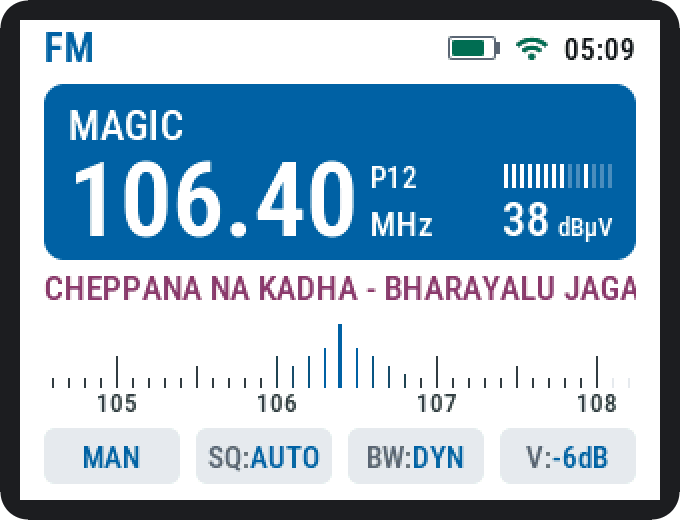
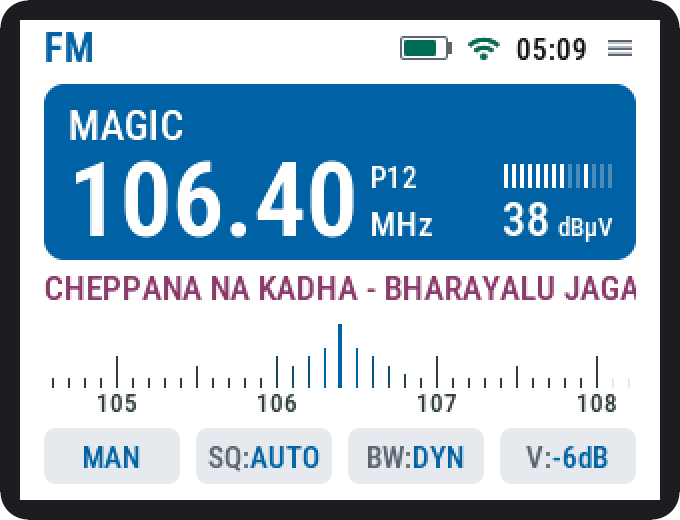
Draw a menu symbol in the radio screen's header
With Touch On and the touch chip answering, three lines sit at the far
right of the header, over the half a tap opens the menu from, and the
clock moves left of them. The band name keeps stepping the band.

Changed region(s): [[0.5868, 0.0615, 0.9265, 0.1231]]

diff --git a/src/ui/fonts/font_icons.c b/src/ui/fonts/font_icons.c
@@ -2,7 +2,7 @@
  * Size: 16 px
  * Bpp: 4
  * Weight: 400
- * Glyphs: 0xE63E,0xE4D9,0xE4CA,0xEB31,0xE1E2,0xE668,0xE5CD,0xE648,0xE5CC,0xE5CB,0xE14A,0xE86C,0xE887,0xE8B5,0xE14B,0xE031,0xE156,0xE037,0xE034,0xE565,0xEF49,0xE405,0xE91F,0xE1B8,0xE53A
+ * Glyphs: 0xE63E,0xE4D9,0xE4CA,0xEB31,0xE1E2,0xE668,0xE5CD,0xE648,0xE5CC,0xE5CB,0xE14A,0xE5D2,0xE86C,0xE887,0xE8B5,0xE14B,0xE031,0xE156,0xE037,0xE034,0xE565,0xEF49,0xE405,0xE91F,0xE1B8,0xE53A
  *
  * Material Symbols Outlined, for the status and page symbols.
  * Generated by tools/make_lvgl_font.py. Do not edit.
@@ -140,6 +140,12 @@ static LV_ATTRIBUTE_LARGE_CONST const uint8_t glyph_bitmap[] = {
     0x70, 0x0, 0x7f, 0x67, 0xf7, 0x0, 0x0, 0x7, 0xff, 0x70, 0x0, 0x0, 0x7, 0xff,
     0x60, 0x0, 0x0, 0x7f, 0x77, 0xf6, 0x0, 0x7, 0xf7, 0x0, 0x7f, 0x60, 0x5f,
     0x70, 0x0, 0x7, 0xf5, 0x15, 0x0, 0x0, 0x0, 0x51,
+
+    /* U+E5D2 "" */
+    0xff, 0xff, 0xff, 0xff, 0xff, 0xff, 0x55, 0x55, 0x55, 0x55, 0x55, 0x55, 0x0,
+    0x0, 0x0, 0x0, 0x0, 0x0, 0x77, 0x77, 0x77, 0x77, 0x77, 0x77, 0xee, 0xee,
+    0xee, 0xee, 0xee, 0xee, 0x0, 0x0, 0x0, 0x0, 0x0, 0x0, 0x55, 0x55, 0x55,
+    0x55, 0x55, 0x55, 0xff, 0xff, 0xff, 0xff, 0xff, 0xff,
 
     /* U+E63E "" */
     0x0, 0x0, 0x0, 0x0, 0x11, 0x0, 0x0, 0x0, 0x0, 0x0, 0x3, 0x9d, 0xff, 0xff,
@@ -335,53 +341,59 @@ static const lv_font_fmt_txt_glyph_dsc_t glyph_dsc[] = {
      .ofs_y = 3},
     {.bitmap_index = 986,
      .adv_w = 256,
+     .box_w = 12,
+     .box_h = 8,
+     .ofs_x = 2,
+     .ofs_y = 4},
+    {.bitmap_index = 1034,
+     .adv_w = 256,
      .box_w = 17,
      .box_h = 12,
      .ofs_x = -1,
      .ofs_y = 2},
-    {.bitmap_index = 1088,
+    {.bitmap_index = 1136,
      .adv_w = 256,
      .box_w = 17,
      .box_h = 14,
      .ofs_x = -1,
      .ofs_y = 0},
-    {.bitmap_index = 1207,
+    {.bitmap_index = 1255,
      .adv_w = 256,
      .box_w = 12,
      .box_h = 9,
      .ofs_x = 2,
      .ofs_y = 4},
-    {.bitmap_index = 1261,
+    {.bitmap_index = 1309,
      .adv_w = 256,
      .box_w = 14,
      .box_h = 14,
      .ofs_x = 1,
      .ofs_y = 1},
-    {.bitmap_index = 1359,
+    {.bitmap_index = 1407,
      .adv_w = 256,
      .box_w = 14,
      .box_h = 14,
      .ofs_x = 1,
      .ofs_y = 1},
-    {.bitmap_index = 1457,
+    {.bitmap_index = 1505,
      .adv_w = 256,
      .box_w = 14,
      .box_h = 14,
      .ofs_x = 1,
      .ofs_y = 1},
-    {.bitmap_index = 1555,
+    {.bitmap_index = 1603,
      .adv_w = 256,
      .box_w = 16,
      .box_h = 13,
      .ofs_x = 0,
      .ofs_y = 2},
-    {.bitmap_index = 1659,
+    {.bitmap_index = 1707,
      .adv_w = 256,
      .box_w = 16,
      .box_h = 12,
      .ofs_x = 0,
      .ofs_y = 2},
-    {.bitmap_index = 1755,
+    {.bitmap_index = 1803,
      .adv_w = 256,
      .box_w = 14,
      .box_h = 12,
@@ -394,8 +406,8 @@ static const lv_font_fmt_txt_glyph_dsc_t glyph_dsc[] = {
 
 static const uint16_t unicode_list_0[] = {
     0x0,   0x3,   0x6,   0x119, 0x11a, 0x125, 0x187, 0x1b1, 0x3d4,
-    0x499, 0x4a8, 0x509, 0x534, 0x59a, 0x59b, 0x59c, 0x60d, 0x617,
-    0x637, 0x83b, 0x856, 0x884, 0x8ee, 0xb00, 0xf18};
+    0x499, 0x4a8, 0x509, 0x534, 0x59a, 0x59b, 0x59c, 0x5a1, 0x60d,
+    0x617, 0x637, 0x83b, 0x856, 0x884, 0x8ee, 0xb00, 0xf18};
 
 /*Collect the unicode lists and glyph_id offsets*/
 static const lv_font_fmt_txt_cmap_t cmaps[] = {
@@ -404,7 +416,7 @@ static const lv_font_fmt_txt_cmap_t cmaps[] = {
      .glyph_id_start = 1,
      .unicode_list = unicode_list_0,
      .glyph_id_ofs_list = NULL,
-     .list_length = 25,
+     .list_length = 26,
      .type = LV_FONT_FMT_TXT_CMAP_SPARSE_TINY}};
 
 /*--------------------

diff --git a/src/ui/panels/panel_header.cpp b/src/ui/panels/panel_header.cpp
@@ -1,7 +1,8 @@
 /*
  * The header: the band on the left, with the metre band beside it on SW, and
- * on the right one run of, from the right, the clock, Wi-Fi, the battery and
- * the sleep mark. No speaker: the V: tile says when the radio is muted.
+ * on the right one run of, from the right, the menu symbol while Touch is On,
+ * the clock, Wi-Fi, the battery and the sleep mark. No speaker: the V: tile
+ * says when the radio is muted.
  *
  * No fill. Every item is centred on one line, 14 rows down: the band name
  * sits on baseline 21 and the rest on baseline 20, one row lower so that the
@@ -51,6 +52,7 @@ static lv_obj_t *sBattBody;
 static lv_obj_t *sBattFill;
 static lv_obj_t *sBattNub;
 static lv_obj_t *sClock;
+static lv_obj_t *sMenu;
 
 /* Top of an icon's box, so its ink is centred on the header's line. */
 static int16_t iconTop(void) {
@@ -77,6 +79,8 @@ static void begin(lv_obj_t *parent, const PanelRect *at) {
   sBattFill = uiRound(parent, t->good, 0, 0, 0, BATT_H - 4, 1);
   sBattNub = uiBlock(parent, t->dead, 0, 0, BATT_NUB_W, BATT_NUB_H);
   sClock = uiLabel(parent, &roboto_small, t->measurement);
+  sMenu = uiLabel(parent, &roboto_icons, t->dead);
+  uiSetTextStatic(sMenu, ICON_MENU);
 }
 
 /* A word in the run, ending at `*right`, which then moves past it. */
@@ -111,8 +115,15 @@ static void show(const ScreenState *s) {
 
   int16_t right = (int16_t)(sAt.x + sAt.w - UI_MARGIN);
 
-  /* The clock holds the corner. Absent until a server has answered, and the
-   * run closes up over it. */
+  /* The menu symbol takes the corner while a finger can use it, deep in the
+   * menu's half, as far from the band name's half as it can be. */
+  uiShowIf(sMenu, s->menuMark);
+  if (s->menuMark) {
+    placeIcon(sMenu, &right, UI_GAP);
+  }
+
+  /* The clock holds the corner, or sits next to the menu symbol. Absent
+   * until a server has answered, and the run closes up over it. */
   if (s->clock != NULL && s->clock[0] != '\0') {
     uiSetText(sClock, s->clock);
     placeWord(sClock, &roboto_small, &right, UI_GAP);

diff --git a/tools/screenshot.cpp b/tools/screenshot.cpp
@@ -409,6 +409,12 @@ static void sceneFmNoClock(ScreenState *s) {
   s->date = NULL;
 }
 
+/* Touch Off: no menu symbol, and the clock back in the corner. */
+static void sceneFmTouchOff(ScreenState *s) {
+  sceneFm(s);
+  s->menuMark = false;
+}
+
 /* A shortwave scene tuned to `khz`: the frequency, the scale and the metre
  * band all from the one number, through core's own rules, so a scene cannot
  * show a metre band the radio would not. */
@@ -617,6 +623,7 @@ static void saveZones(const TouchZone *zones, int n, const char *path) {
 static void render(void (*scene)(ScreenState *), const char *path) {
   ScreenState s;
   memset(&s, 0, sizeof(s));
+  s.menuMark = true; /* Touch On, as on a new radio. */
   scene(&s);
   screenShow(&s);
   saveShot("%s", path);
@@ -1252,6 +1259,7 @@ static bool renderCapture(const char *path, uint32_t khz, bool withRds) {
   in.battery = &battery;
   in.batteryShow = BATTERY_SHOW_PERCENT;
   in.clock = "05:09";
+  in.touchOn = true;
   in.date = fmt(STR_DATE_FMT_LINE, txt(STR_DAY_WEDNESDAY), 30,
                 txt(STR_DATE_SUFFIX_TH), txt(STR_MONTH_SEPTEMBER), 2026);
   in.nowMs = 0;
@@ -1317,6 +1325,7 @@ int main(int argc, char **argv) {
       {"fm-volts", sceneFmVolts},
       {"fm-volts-low", sceneFmVoltsLow},
       {"fm-noclock", sceneFmNoClock},
+      {"fm-touch-off", sceneFmTouchOff},
       {"sw", sceneSw},
       {"sw-top", sceneSwTop},
       {"mw", sceneMw},

diff --git a/src/screen_state.h b/src/screen_state.h
@@ -38,10 +38,11 @@ typedef struct {
   /* Goes up whenever a stored channel changes, so the channel name read
    * from `readChannel` is read again only then. */
   uint32_t memoryGeneration;
-  const char *typed;       /* Digits typed on the keypad so far, or NULL. */
-  ScreenWifi wifi;         /* What the network is doing. */
-  bool rssiValid;          /* The link's strength below was read. */
-  int8_t rssiDbm;          /* The link's strength, in dBm. */
+  const char *typed; /* Digits typed on the keypad so far, or NULL. */
+  bool touchOn;      /* Touch is On and the chip answered: a finger can act. */
+  ScreenWifi wifi;   /* What the network is doing. */
+  bool rssiValid;    /* The link's strength below was read. */
+  int8_t rssiDbm;    /* The link's strength, in dBm. */
   const Battery *battery;  /* The battery readings, or NULL. */
   BatteryShow batteryShow; /* How the battery is shown, if at all. */
   const char *clock;       /* "14:05", or NULL until a server has answered. */

diff --git a/test/test_screen_state/test_screen_state.cpp b/test/test_screen_state/test_screen_state.cpp
@@ -450,6 +450,18 @@ static void the_clock_date_fault_and_log_confirm_are_null_until_set(void) {
   TEST_ASSERT_NULL(state.fault);
 }
 
+/* The menu symbol follows the Touch setting, both ways. */
+static void the_menu_mark_shows_only_with_touch_on(void) {
+  buildNow();
+  TEST_ASSERT_FALSE(state.menuMark);
+  in.touchOn = true;
+  buildNow();
+  TEST_ASSERT_TRUE(state.menuMark);
+  in.touchOn = false;
+  buildNow();
+  TEST_ASSERT_FALSE(state.menuMark);
+}
+
 /* ------------------------------------------------------------ the tiles */
 
 static void the_audio_tile_says_why_there_is_no_sound(void) {
@@ -783,6 +795,7 @@ int main(void) {
   RUN_TEST(rds_is_not_read_on_am);
 
   RUN_TEST(the_clock_date_fault_and_log_confirm_are_null_until_set);
+  RUN_TEST(the_menu_mark_shows_only_with_touch_on);
 
   RUN_TEST(the_audio_tile_says_why_there_is_no_sound);
   RUN_TEST(the_tiles_read_the_settings);

diff --git a/src/screen_task.cpp b/src/screen_task.cpp
@@ -1939,6 +1939,7 @@ void screenTaskPoll(void) {
   InputStatus input;
   inputStatusGet(&input);
   in.typed = input.typed;
+  in.touchOn = input.touchOn && input.touchChip;
   /*
    * What the network is doing, in the four states the header can draw.
    *
@@ -1981,7 +1982,7 @@ void screenTaskPoll(void) {
   in.battery = &sBattery;
   in.batteryShow = sBatteryShow;
   /*
-   * The clock, at the far right of the top strip, and only once a server has
+   * The clock, at the right of the top strip, and only once a server has
    * actually answered.
    *
    * This board has no battery backed clock, so between switching on and the

diff --git a/tools/make_lvgl_font.py b/tools/make_lvgl_font.py
@@ -82,6 +82,8 @@ ICON_CODEPOINTS = (
                               " right"),
     ("chevron_left", 0xE5CB, "the Scope page's cursor button to the left"),
     ("backspace", 0xE14A, "the frequency keypad's backspace key"),
+    ("menu", 0xE5D2, "the menu symbol in the radio screen's header, with"
+                     " Touch On"),
     ("check_circle", 0xE86C, "a PI confirmed on this channel, on the DX page"),
     ("help", 0xE887, "a PI heard with a digit in doubt, or a country not"
                      " yet sure, on the DX page"),

diff --git a/src/ui/fonts.h b/src/ui/fonts.h
@@ -96,6 +96,7 @@ LV_FONT_DECLARE(roboto_icons)
 #define ICON_CHEVRON "\xEE\x97\x8C"      /* U+E5CC chevron_right */
 #define ICON_CHEVRON_LEFT "\xEE\x97\x8B" /* U+E5CB chevron_left */
 #define ICON_BACKSPACE "\xEE\x85\x8A"    /* U+E14A backspace */
+#define ICON_MENU "\xEE\x97\x92"         /* U+E5D2 menu */
 #define ICON_CHECK_CIRCLE "\xEE\xA1\xAC" /* U+E86C check_circle */
 #define ICON_HELP "\xEE\xA2\x87"         /* U+E887 help */
 #define ICON_SCHEDULE "\xEE\xA2\xB5"     /* U+E8B5 schedule */

diff --git a/src/screen_state.cpp b/src/screen_state.cpp
@@ -294,6 +294,7 @@ void screenStateBuild(ScreenBuild *b, const ScreenInputs *in,
    * screen_task.cpp reads them. */
   state.clock = in->clock;
   state.date = in->date;
+  state.menuMark = in->touchOn;
 
   /* What the tuner last refused. Without it the screen can show a station the
    * radio is not actually on, with nothing to say so. */

diff --git a/src/ui/screen.h b/src/ui/screen.h
@@ -83,6 +83,9 @@ typedef struct {
   bool batteryValid;
   uint8_t batteryPercent;
   const char *batteryText;
+  /* Touch is On: the menu symbol in the corner, over the half of the header
+   * a tap opens the menu from. */
+  bool menuMark;
 
   /* ---- the frequency panel ---- */
   /*

diff --git a/wiki/Radio-Screen.md b/wiki/Radio-Screen.md
@@ -8,7 +8,7 @@ The colours named on this page are those of the Nightwatch theme in the pictures
 
 From top to bottom:
 
-1. **Header:** the band, and at the right the status marks and the clock.
+1. **Header:** the band, and at the right the status marks, the clock and, while Touch is On, the menu symbol.
 2. **Frequency panel**, the large filled box: the station name, the frequency, the preset number, the modulation meter and the signal level.
 3. **Text line:** the radio text, or the date.
 4. **Tuning scale.**
@@ -22,7 +22,8 @@ From top to bottom:
 | Wi-Fi mark | Always shown. On your network: green bars, 3 to 0 by the Wi-Fi signal. Joining: a search mark in grey. Serving the hotspot: a hotspot mark in amber. Wi-Fi off: a crossed mark in grey |
 | Battery | Hidden on a new radio. Display > Battery set to `Percent` shows a filled shape, and `Volts` shows the voltage. It turns to the theme's fault colour, red in Nightwatch, at 20 % or less |
 | Sleep mark | A person in bed, only while Auto Off is on. It turns amber in the last 5 minutes |
-| Clock | `HH:MM`, at the far right. It is hidden until the radio has the time from the network |
+| Clock | `HH:MM`, at the right. It is hidden until the radio has the time from the network |
+| Menu symbol | Three lines at the far right, only while **Controls > Touch** is On. A tap on the right half of the header opens the menu, see [Touch Screen](Touch-Screen.md#the-radio-screen) |
 
 ## 2. Frequency panel
 

diff --git a/wiki/FAQ.md b/wiki/FAQ.md
@@ -30,7 +30,7 @@ No. It works as a radio with Wi-Fi off. Wi-Fi is needed for the web page, the HT
 
 ### Does touch work?
 
-Not yet. The firmware reads the screen's touch controller, but outside the calibration screen a touch does nothing on the radio yet. To check that your screen's touch works, watch `tch` in [GET /api/state](HTTP-API.md#get-apistate) while you press the screen. If the screen ever acts on its own once touch does something, turn it off at **Controls > Touch**, or on the [recovery screen](Recovery-Screen.md) when the menu cannot be used. To calibrate it, see [Touch Screen](Touch-Screen.md).
+Yes. The radio screen, the frequency keypad, the menu, the bandwidth page, the RDS screen and DX mode's pages can be worked by finger, as [Touch Screen](Touch-Screen.md) describes. While Touch is On, three lines at the far right of the radio screen's header mark where a tap opens the menu. To check that your screen's touch works, watch `tch` in [GET /api/state](HTTP-API.md#get-apistate) while you press the screen. If the screen ever acts on its own, turn it off at **Controls > Touch**, or on the [recovery screen](Recovery-Screen.md) when the menu cannot be used. To calibrate it, see [Touch Screen](Touch-Screen.md).
 
 ### Why is the clock wrong, or not shown?
 
